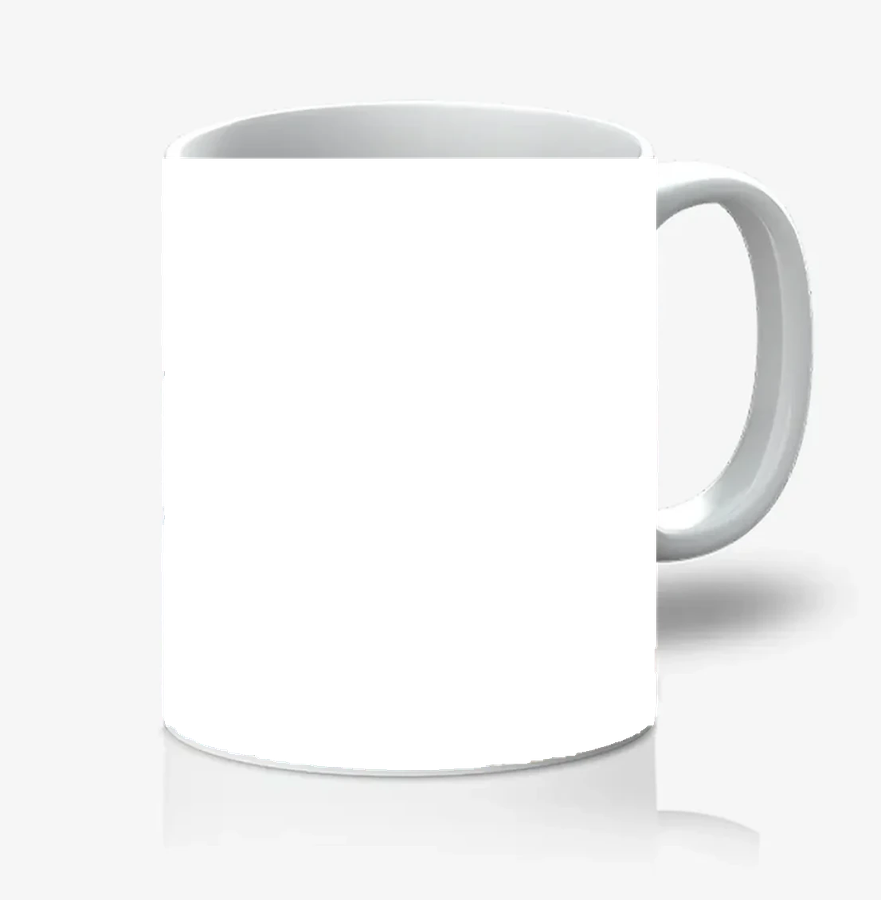
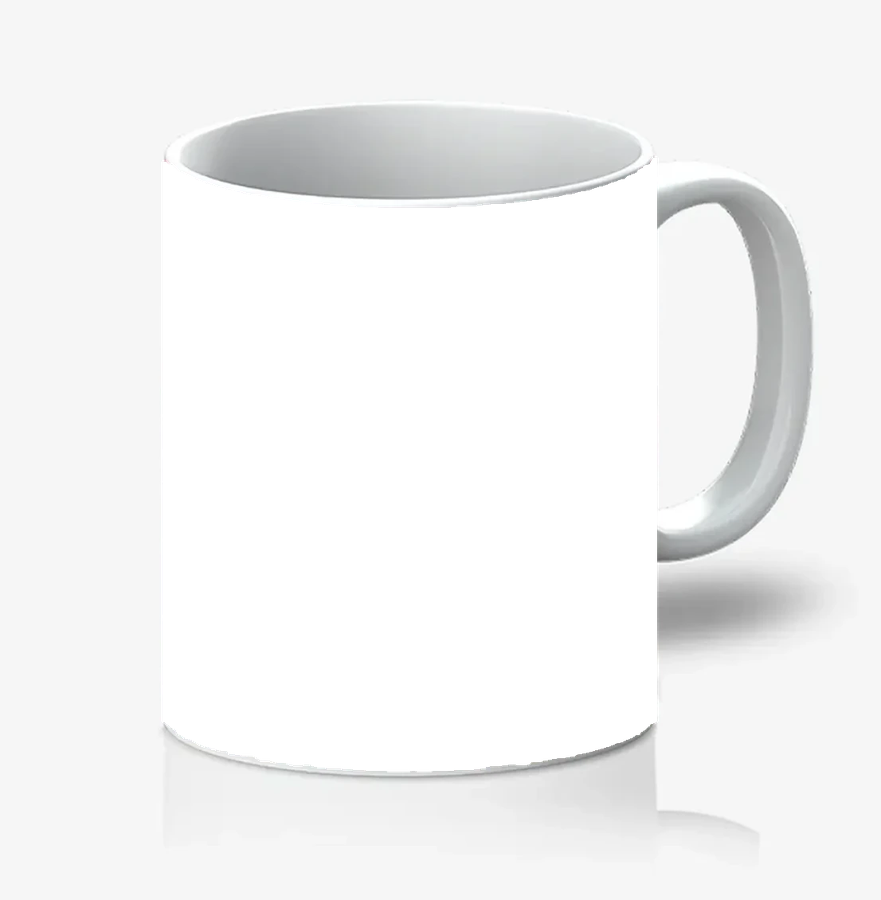
Mug: curve the top of the wrap, and show the mug on the detail page
Two things you could see on the live shop.

THE TOP EDGE WAS STRAIGHT. Extracting the template I took the leftmost and
rightmost design pixel in each ROW, which correctly fills white patches inside
the design — a collar, a sleeve — but near the top the design exists only at
the far left and right, because the mug's rim dips lowest in the middle. So
spanning min..max bridged straight across the opening and cut the rim off.
Doing it by COLUMN instead — topmost and bottommost design pixel in each — fills
those interior patches just the same and follows both curves. Measured on a
flat-colour photo so the reading is the mask and not the picture's own
contents: 42px of arc at the top, 39px at the bottom, each peaking at centre.

THE DETAIL PAGE STILL SHOWED BARE ARTWORK. Adding a mockup did nothing there,
because that preview goes through renderProductOnly, which paints the art as a
rectangle with a drop shadow. That reads correctly for a print, a canvas or a
tile, since those ARE flat rectangles — but it showed a mug's 229mm wrap as a
flat panorama with no mug in it. Products whose shape is the product now use
their real mockup, with the same Unsplash-then-bundled-sample fallback ladder
getArtImage already had, so a blocked Unsplash cannot quietly drop the product
back to a bare rectangle.

A note on the measuring, since it caught both: reading the topmost SATURATED
pixel of a composited render put the top arc at 91px and non-monotone, because
[…]

Changed region(s): [[0.2145, 0.1556, 0.7355, 0.2489]]

diff --git a/public/order.html b/public/order.html
@@ -574,7 +574,7 @@
         // Made from Prodigi's own product shot with the design it carried erased
         // pixel by pixel, so the asset holds no third-party artwork. `cutout`
         // puts the art under the template, letting the cylinder's arcs mask it.
-        mug:    { template: '/assets/mockups/mug.png',    rect: { x: 0.1850, y: 0.1767, w: 0.5596, h: 0.6778 }, cutout: true, cylinder: true },
+        mug:    { template: '/assets/mockups/mug.png',    rect: { x: 0.1850, y: 0.1756, w: 0.5596, h: 0.6800 }, cutout: true, cylinder: true },
       };
 
       // Per-product product-photo GALLERY (like Prodigi's own product-page galleries).
@@ -1755,8 +1755,33 @@
         // No thumbnail strip / scenes. The product reshapes to the selected size's aspect
         // ratio and portrait/landscape (photo cropped to fit); the tile + stage stay put.
         document.getElementById('view-row').innerHTML = '';
-        const art = await getArtImage(aspect);
-        renderProductOnly(cv, art, aspect);
+        /* Products whose shape IS the product get their real mockup here, not the
+           drawn one. renderProductOnly paints the artwork as a bare rectangle
+           with a drop shadow, which reads correctly for a print, a canvas or a
+           tile — they ARE flat rectangles. A mug is not: that path showed its
+           229mm wrap as a flat panorama with no mug anywhere in sight. */
+        const mk = MOCKUPS[state.productType];
+        if (mk && mk.cutout) {
+          // Same fallback ladder as getArtImage: the sample is a random Unsplash
+          // shot, so retry once with the bundled copy before giving up on the
+          // mockup — otherwise a blocked Unsplash silently drops the product
+          // back to a bare rectangle.
+          const src = state.selectedPhoto ? state.selectedPhoto.url : SAMPLE_PHOTO;
+          const opts = { scale: state.scale, mockup: mk, aspect };
+          try {
+            await renderProductMockup(cv, src, opts);
+          } catch (_) {
+            try {
+              if (state.selectedPhoto || src === FALLBACK_SAMPLE) throw 0;
+              await renderProductMockup(cv, FALLBACK_SAMPLE, opts);
+            } catch (_) {
+              renderProductOnly(cv, await getArtImage(aspect), aspect);
+            }
+          }
+        } else {
+          const art = await getArtImage(aspect);
+          renderProductOnly(cv, art, aspect);
+        }
         updateDetailCta();
         renderPopcodeCta();
       }

diff --git a/public/unsplash-samples.js b/public/unsplash-samples.js
@@ -161,7 +161,7 @@
        and bottom mask the photo correctly. Built from Prodigi's own product
        shot; the design it carried was removed pixel by pixel, which is also why
        there is no third-party artwork in the asset. */
-    mug: { template: '/assets/mockups/mug.png', rect: { x: 0.1850, y: 0.1767, w: 0.5596, h: 0.6778 }, cutout: true, cylinder: true },
+    mug: { template: '/assets/mockups/mug.png', rect: { x: 0.1850, y: 0.1756, w: 0.5596, h: 0.6800 }, cutout: true, cylinder: true },
     print:  { template: '/assets/mockups/print.jpg',  rect: { x: 0.190, y: 0.113, w: 0.626, h: 0.782 }, crop: { x: 0.168, y: 0.089, w: 0.667, h: 0.823 } },
     tile:   { template: '/assets/mockups/tile.jpg',   rect: { x: 0.280, y: 0.206, w: 0.427, h: 0.598 }, crop: { x: 0.242, y: 0.167, w: 0.521, h: 0.696 } },
     canvas: { template: '/assets/mockups/canvas.jpg', rect: { x: 0.190, y: 0.112, w: 0.670, h: 0.804 }, crop: { x: 0.168, y: 0.094, w: 0.709, h: 0.869 } },
